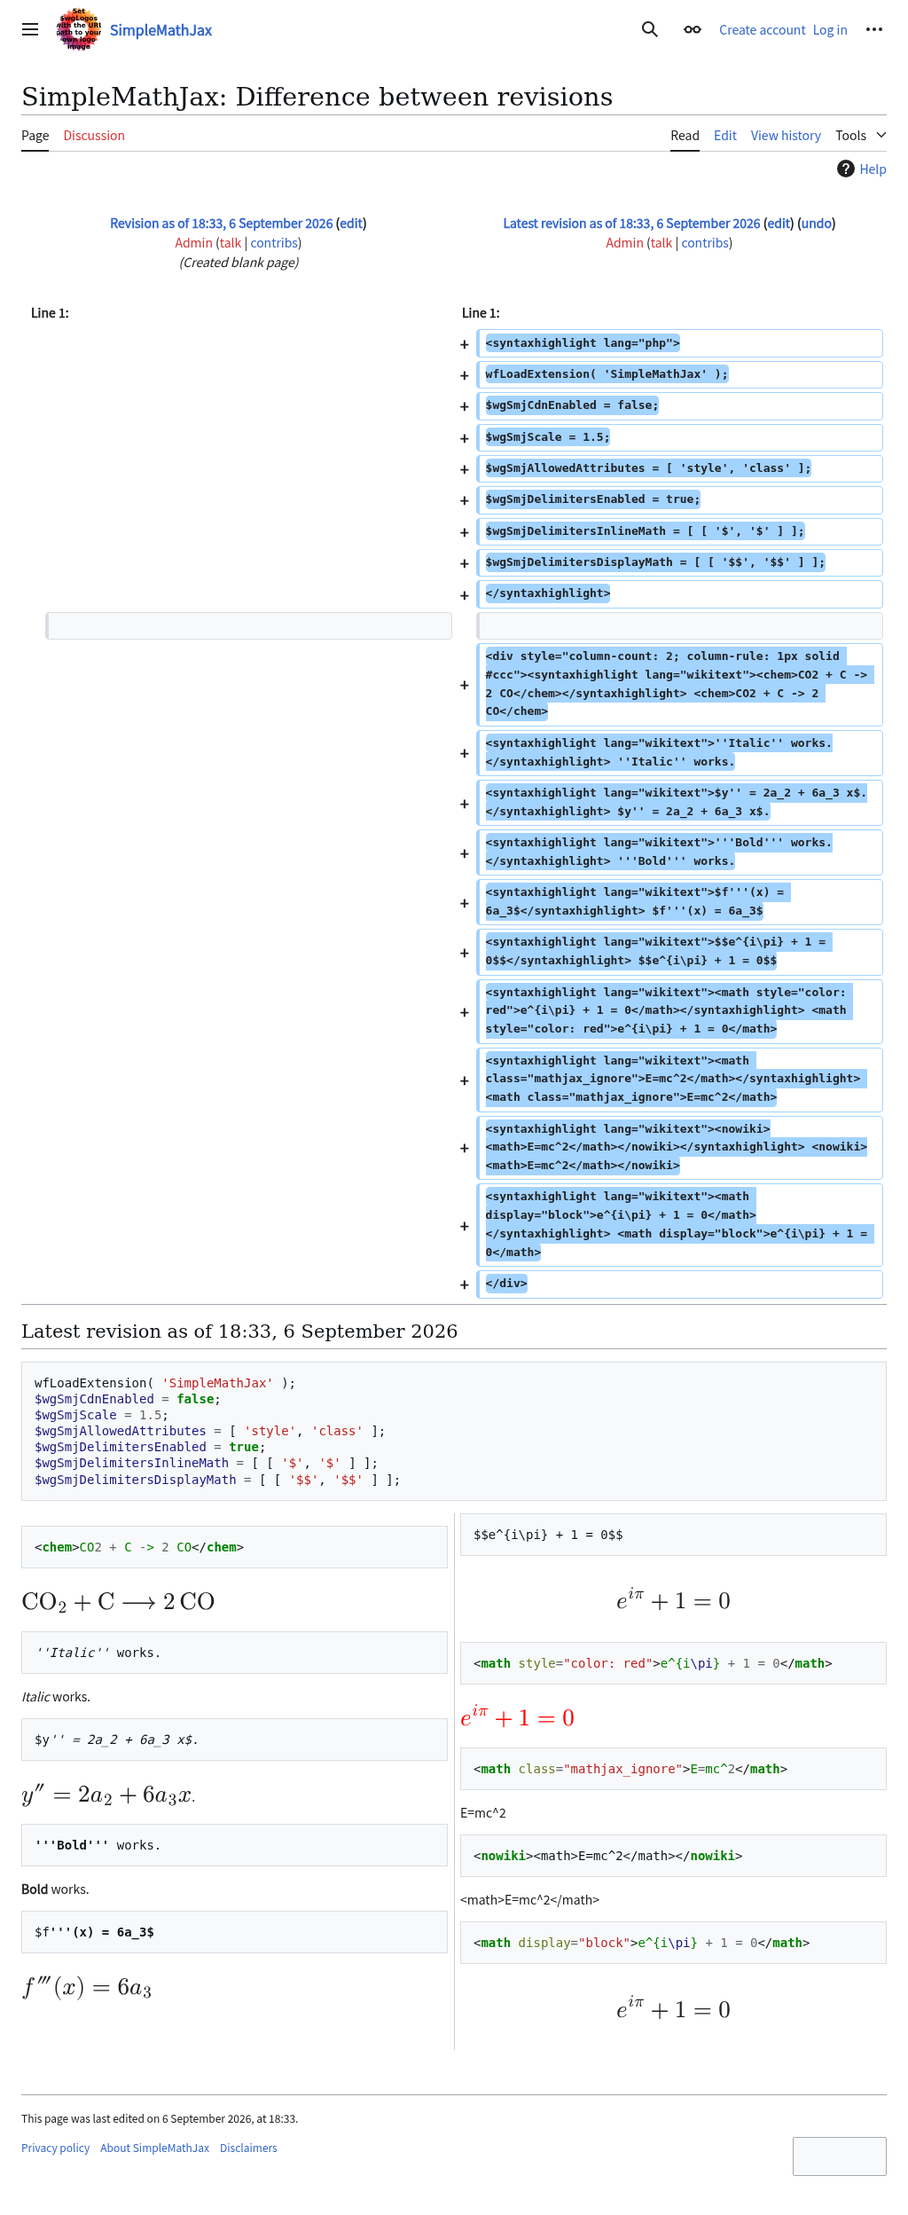
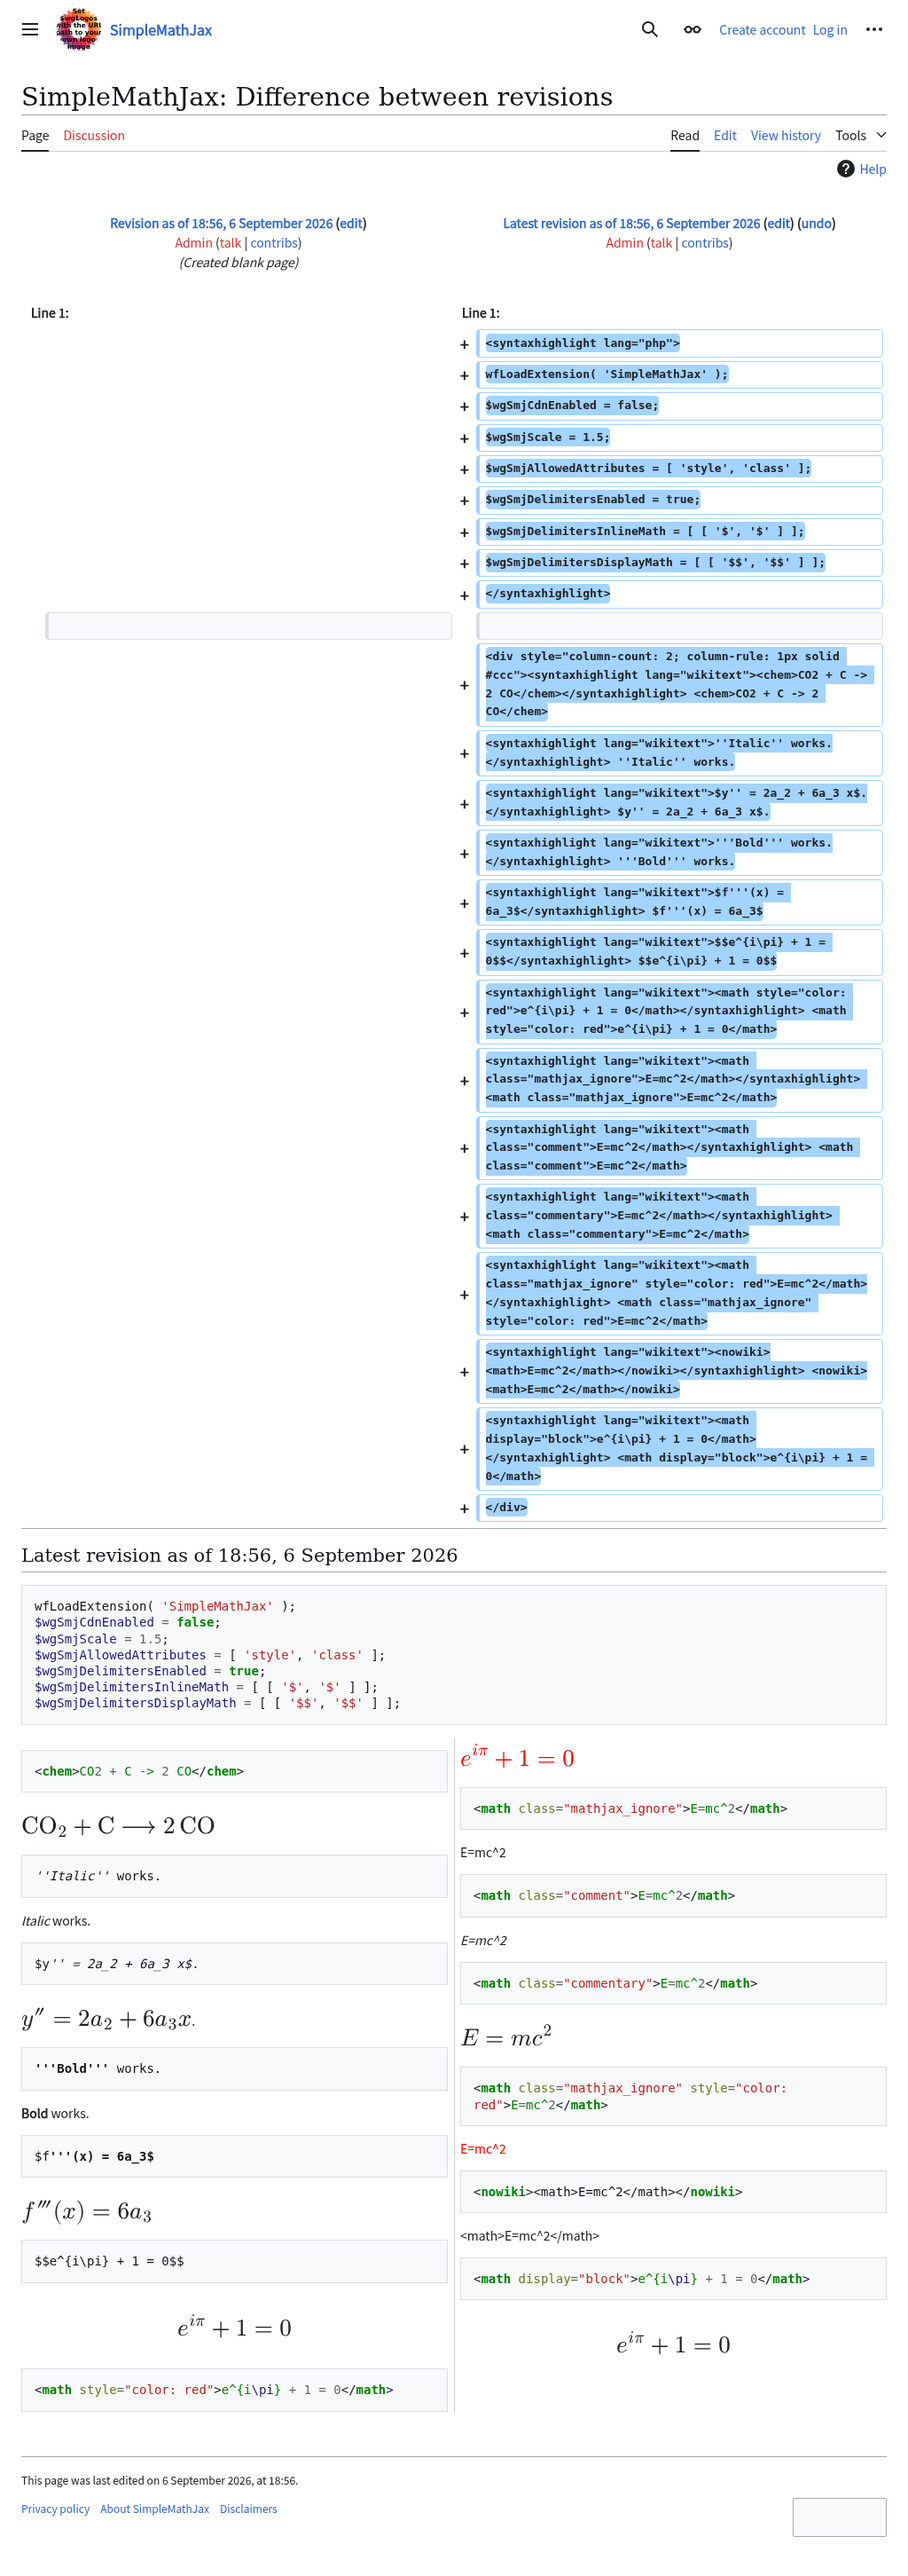
Fix ignore-class substring matching, preserve style on ignored formulas, bundle MathJax in release tarball (#77)
* Anchor ignore-class matching to full class tokens and preserve style

$wgSmjIgnoreHtmlClass was matched against the raw class attribute with
preg_match(), so it matched anywhere in the string. With the default
pattern (which includes "comment"), an unrelated class such as
"commentary" or "diff-contextual" was incorrectly treated as ignored
and its formula shown as untypeset literal text. Anchor the pattern to
whole space-delimited class tokens, matching the boundary MathJax's
own ignoreHtmlClass option applies internally.

Also, an ignored formula unconditionally discarded its whole "style"
attribute, including any style an editor supplied through an
allow-listed "style" (via $wgSmjAllowedAttributes), not just the
placeholder opacity SimpleMathJax defaults to before typesetting.
Only strip the default placeholder now, so an editor-supplied style
survives on an ignored formula.

Add demo cases and a regression test for both fixes, and correct
configuration.md: GitHub's automatically generated release source
archives don't include submodule contents, so local-mode users
working from one of those archives need to initialize the
resources/MathJax submodule themselves.

* Attach a MathJax-bundled tarball to releases; bump to 1.0.1

GitHub's auto-generated release source archives don't include
submodule content, so resources/MathJax comes out empty in them and
local rendering ($wgSmjCdnEnabled = false) fails for anyone who
[…]

diff --git a/includes/Hooks.php b/includes/Hooks.php
@@ -62,10 +62,17 @@ class Hooks {
 	}
 
 	// $pattern is an admin-supplied regex fragment with no delimiter of its
-	// own, so avoid one that could occur inside it.
-	private static function matchesIgnoreHtmlClass( string $pattern, string $class ): bool {
+	// own, so avoid one that could occur inside it. The pattern is anchored
+	// to whole space-delimited class tokens, mirroring the
+	// "(?:^| )(?:pattern)(?: |$)" boundary MathJax itself applies to its
+	// own ignoreHtmlClass option (see resources/MathJax/core.js), so e.g.
+	// "comment" matches class="comment" but not class="commentary".
+	// Public (like applyRevisionOverrides below) so it's unit-testable
+	// without a MediaWiki bootstrap.
+	public static function matchesIgnoreHtmlClass( string $pattern, string $class ): bool {
 		$delimiter = strpos( $pattern, '~' ) === false ? '~' : "\x01";
-		$result = preg_match( $delimiter . $pattern . $delimiter, $class );
+		$anchored = '(?:^| )(?:' . $pattern . ')(?: |$)';
+		$result = preg_match( $delimiter . $anchored . $delimiter, $class );
 		return $result === 1;
 	}
 
@@ -146,7 +153,14 @@ class Hooks {
 		$isIgnored = self::$ignoreHtmlClass !== ''
 			&& self::matchesIgnoreHtmlClass( self::$ignoreHtmlClass, $attributes["class"] );
 		if ( $isIgnored ) {
-			unset( $attributes["style"] );
+			// Strip only the placeholder opacity this method defaults to
+			// while MathJax hasn't run yet; an editor-supplied "style" (via
+			// $wgSmjAllowedAttributes) already replaced that default above
+			// and must be kept, since an ignored element is never typeset
+			// and so never gets its opacity reset to 1 either.
+			if ( !isset( $validatedAttribs["style"] ) ) {
+				unset( $attributes["style"] );
+			}
 			$element = Html::Element( "span", $attributes, $tex );
 		} else {
 			if ( !isset( $attributes["smj-debug"] ) && !isset( $args["smj-debug"] ) ) {

diff --git a/tests/IgnoreHtmlClassTest.php b/tests/IgnoreHtmlClassTest.php
@@ -1,0 +1,59 @@
+<?php
+use MediaWiki\Extension\SimpleMathJax\Hooks;
+
+require __DIR__ . '/../includes/Hooks.php';
+
+$failures = 0;
+
+function assert_same( $name, $expected, $actual ) {
+	global $failures;
+	if ( $expected === $actual ) {
+		echo "ok   $name\n";
+		return;
+	}
+	$failures++;
+	echo "FAIL $name\n";
+	echo '  expected: ' . var_export( $expected, true ) . "\n";
+	echo '  actual:   ' . var_export( $actual, true ) . "\n";
+}
+
+$pattern = 'mathjax_ignore|comment|diff-(context|addedline|deletedline)';
+
+assert_same(
+	'matchesIgnoreHtmlClass matches an exact single class',
+	true,
+	Hooks::matchesIgnoreHtmlClass( $pattern, 'comment' )
+);
+assert_same(
+	'matchesIgnoreHtmlClass matches one token among several classes',
+	true,
+	Hooks::matchesIgnoreHtmlClass( $pattern, 'foo comment bar' )
+);
+assert_same(
+	'matchesIgnoreHtmlClass does not match a class that merely contains the pattern as a substring',
+	false,
+	Hooks::matchesIgnoreHtmlClass( $pattern, 'commentary' )
+);
+assert_same(
+	'matchesIgnoreHtmlClass does not match a class with the pattern as a prefix of a longer token',
+	false,
+	Hooks::matchesIgnoreHtmlClass( $pattern, 'diff-contextual' )
+);
+assert_same(
+	'matchesIgnoreHtmlClass does not match a class with the pattern as a suffix of a longer token',
+	false,
+	Hooks::matchesIgnoreHtmlClass( $pattern, 'notmathjax_ignoreable' )
+);
+assert_same(
+	'matchesIgnoreHtmlClass does not match an unrelated class list',
+	false,
+	Hooks::matchesIgnoreHtmlClass( $pattern, 'foo bar' )
+);
+assert_same(
+	'matchesIgnoreHtmlClass does not match an empty class',
+	false,
+	Hooks::matchesIgnoreHtmlClass( $pattern, '' )
+);
+
+echo $failures === 0 ? "\nAll tests passed.\n" : "\n$failures test(s) FAILED.\n";
+exit( $failures === 0 ? 0 : 1 );

diff --git a/docs/configuration.md b/docs/configuration.md
@@ -41,8 +41,23 @@ $wgSmjCdnEnabled = false;
 When working from the Git repository, initialize or update the bundled
 MathJax submodule with `make local-mathjax` — see
 [Updating MathJax](development.md#updating-mathjax) for version
-selection. Normal extension packages already include the bundled MathJax
-resources and do not require Git commands.
+selection. The `resources/MathJax` directory is a Git submodule, and
+GitHub's automatically generated release source archives (the "Source
+code (zip/tar.gz)" links on a release page) do not include submodule
+contents — only an empty `resources/MathJax` directory. If you set
+`$wgSmjCdnEnabled = false`, use one of these instead:
+
+- Download the `SimpleMathJax-<version>-with-mathjax.tar.gz` asset
+  attached to the corresponding [release](https://github.com/jmnote/SimpleMathJax/releases),
+  which already has the MathJax submodule's contents included.
+- Or clone the repository (`git clone --recurse-submodules`, or run
+  `git submodule update --init` in an existing checkout) so
+  `resources/MathJax/tex-chtml.js` and the other bundled files are
+  actually present.
+
+Otherwise local rendering will fail. This doesn't apply when using the
+CDN (the default), which fetches MathJax from jsDelivr instead of the
+bundled files.
 
 ### `$wgSmjScale`
 
